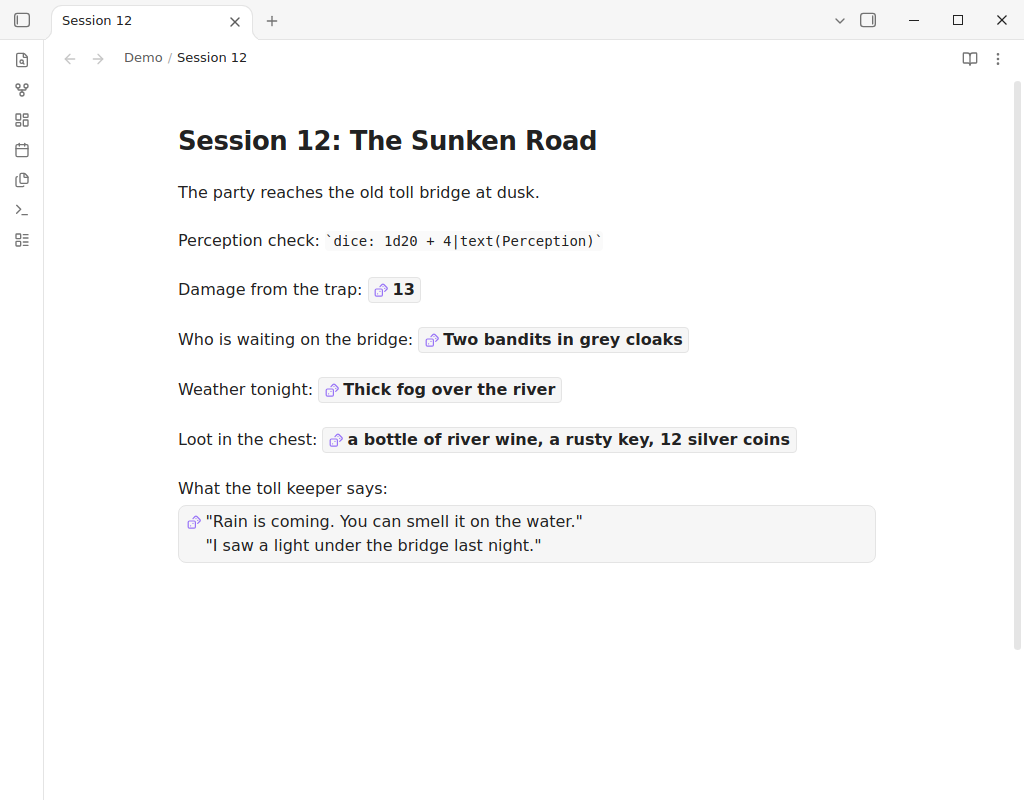
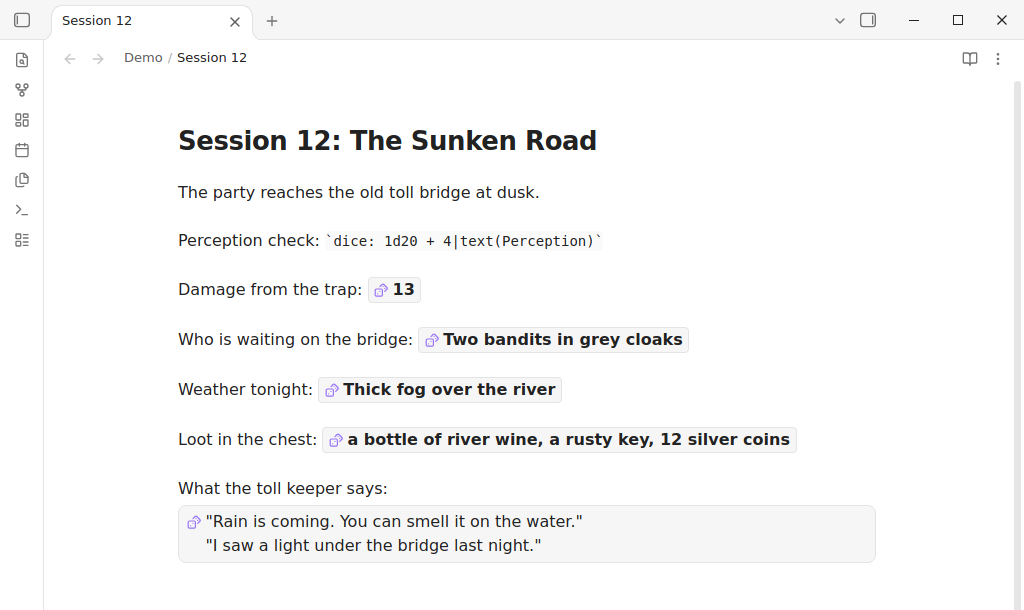
Daan: README als winkelpagina bijgeschaafd (eerste plaatje toont wat je typt, plaatjes bijgesneden, Made by Thijs at Dortus, kopjes in de naslag)
Claude-Session: https://claude.ai/code/session_01Mbw2PfhMQqZywXWKKCn2wR

diff --git a/producten/obsidian-rollwright/README.md b/producten/obsidian-rollwright/README.md
@@ -2,9 +2,9 @@
 
 Roll dice and random tables right inside your notes. Write a formula, read the result, click to roll again.
 
-![A session note in reading view: a Perception check, trap damage, an encounter, the weather, loot and a line from the toll keeper, each rolled in place](https://raw.githubusercontent.com/thijsduinhouwer2002-coder/rollwright/main/images/reading-view.png)
+![A session note in Live Preview: the Perception line shows the code you type, dice: 1d20 + 4|text(Perception), and the lines around it show rolled results: trap damage, an encounter, the weather, loot and a line from the toll keeper](https://raw.githubusercontent.com/thijsduinhouwer2002-coder/rollwright/main/images/live-preview.png)
 
-Made for game masters and solo players who keep their sessions in Obsidian. It uses the `dice:` notation known from the Dice Roller plugin.
+Made by Thijs at [Dortus](https://dortus.com) for game masters and solo players who keep their sessions in Obsidian. It uses the `dice:` notation known from the Dice Roller plugin.
 
 ## What you can do
 
@@ -14,8 +14,6 @@ Made for game masters and solo players who keep their sessions in Obsidian. It u
 - **Keep or write a result.** `dice+:` keeps a result after a restart, `dice-mod:` writes it into the note after you confirm.
 - **Roll history.** A side panel shows what you rolled, from which note, and lets you roll again.
 - **Works where you write.** Reading view and Live Preview look the same, in light and dark themes.
-
-![Live Preview: the line with the cursor shows the code, the other lines show their results](https://raw.githubusercontent.com/thijsduinhouwer2002-coder/rollwright/main/images/live-preview.png)
 
 ![The roll history panel next to the note, with each roll, its formula or source table, and its source note](https://raw.githubusercontent.com/thijsduinhouwer2002-coder/rollwright/main/images/roll-history.png)
 
@@ -29,19 +27,27 @@ For a table, give it a block id such as `^loot` and write `` `dice: [[Treasure^l
 
 All rolling is free. Two extra looks, Parchment and Arcane, are a one-time $6 purchase (see [Paid skins](#paid-skins)).
 
-## Reference
+## Full reference
 
-Rollwright is at version 0.2.0. Before each release, automated tests run it in the real Obsidian app, in reading view and Live Preview.
+Everything below is detail for when you need it. Rollwright is at version 0.2.0. Before each release, automated tests run it in the real Obsidian app, in reading view and Live Preview.
 
-## Rolling dice
+### Rolling dice
 
 Write `` `dice: 2d6 + 3` `` in a note. It works in reading view and Live Preview. Hover to see the formula and the dice. Click to roll again. A result stays while you scroll or type elsewhere in the note. It is rolled again when you click, after a restart, and when lines above it are added or removed, because a result is tied to its line. A roll in a table cell can also roll again when the note is drawn again.
 
+#### Keep a result
+
 To keep a result after a restart, write `` `dice+: 2d6` ``. Rollwright saves it in its own plugin data, for that note and that place in it. A click rolls again and keeps the new result. Up to 500 kept results are saved; beyond that the oldest is dropped. `` `dice-: 2d6` `` never keeps a result and works like `dice:`. When Rollwright cannot tell which line a code is on, as can happen in a table cell of the note itself, `dice+:` works like `dice:` and keeps nothing. Inside a cell of a table you roll on, or as a lookup table header, `dice+:` and `dice-:` roll like `dice:`: the result is kept, or not, as part of the outer roll. Inside such a cell or header, `dice-mod:` is not rolled and stays as text.
+
+#### Write a result into the note
 
 To write a roll into the note for good, use `` `dice-mod: 3d100 + 12` ``. It shows a roll like `dice:`. A click, or Enter, does not roll again: it asks first and shows the text that goes in. Replace turns the code, backticks included, into the result you see, as in `3d100 + 12 -> [75, 20, 75] + 12 -> 182`. A setting leaves out the formula: `[75, 20, 75] + 12 -> 182`. The total follows the number flags; labels such as `|text(x)` are not written. A roll on a table, list, note or tag writes only its result, on one line, and that other note is never changed. Characters that would change the line get a backslash, such as a backtick, a `|` in a table row, or a `#` or `-` at the start of a line. Rollwright only writes into the note that holds the code. It refuses inside an embedded note and when it cannot tell which line the code is on, as can happen in a table cell; then it says so and changes nothing. In Live Preview, undo takes the change back. In reading view the file is changed directly, and undo may not take that back, so check the window before you choose Replace.
 
+#### Clicks with Ctrl or Alt
+
 Ctrl-click (Cmd-click on a Mac) on a result from a table, list, section, line or tag opens the note it came from, in a new tab, without rolling. A tag roll over several notes has no single note to open, so it only says so. On a dice roll, Ctrl-click rolls again like a plain click. Alt-click (Option-click on a Mac) on a dice roll shows its average, as `|avg` does; it is not added to the history. Ctrl-click on a code with `|none` hides its result again and forgets it, also for `dice+:`. On `dice-mod:`, Ctrl-click opens the source of a table or section result; any other click opens the replace window. Phones have no Ctrl or Alt key, so there only a plain tap works.
+
+#### Dice notation
 
 | You write | What it does |
 |---|---|
@@ -56,7 +62,7 @@ Ctrl-click (Cmd-click on a Mac) on a result from a table, list, section, line or
 | `(1d4)d6` | Roll for the number of dice first |
 | `3g2d`, `2y1c1b`, `1w` | Narrative dice of Genesys and the Star Wars roleplaying games: Ability `g`/`a`, Proficiency `y`/`pro`, Difficulty `d`/`diff`, Challenge `r`/`c`, Boost `b`/`boo`, Setback `s`/`sb`/`blk`, Force `w`/`f`, capitals the same. `p` is Proficiency when the roll also has an `a`, `c` or `d` die, otherwise it asks you to write `y` or `d`. Success cancels Failure and Advantage cancels Threat; Triumph also counts as a Success and Despair as a Failure. The result reads like `2 Success, 1 Threat`, the tooltip shows each die. Only when the whole formula is narrative dice and cannot be read as ordinary dice: `2d`, `d`, `4dF` and `1D6KH1` stay ordinary dice, as do saved formulas and note fields such as `gp`. No average with `\|avg` |
 
-### Modifiers
+#### Modifiers
 
 Modifiers run from left to right. A number is optional and defaults to 1.
 
@@ -73,13 +79,13 @@ Modifiers run from left to right. A number is optional and defaults to 1.
 
 `!` explodes on the highest face and `r` rerolls the lowest, unless you add conditions: `1d4!=3`, `1d4!i=!3`, `1d4r<3`, `1d4r<2>3`. Conditions right after `!` or `r` belong to that modifier.
 
-### Counting successes
+#### Counting successes
 
 A condition on dice turns each die into a score: 1 if it matches, otherwise 0. The result is the sum.
 
 `=`, `=!` (not equal), `>`, `<`, `>=`, `<=`, and `-=` or `=-` to score -1. Example: `5d10>=8-=1`. The first matching condition counts. The threshold can be dice too: `3d6>1d6`.
 
-### Flags
+#### Flags
 
 Add flags after `|`, as in `1d20 + 2|nodice|text(Dexterity +2)`.
 
@@ -100,7 +106,7 @@ Add flags after `|`, as in `1d20 + 2|nodice|text(Dexterity +2)`.
 
 The number flags only change dice results, not picks from tables, lists or notes, and only what is shown: the tooltip still shows the exact roll. When two of them clash, the last one counts, so `|round|noround` does not round. A table column with the same name as a flag, such as Round, still wins.
 
-## Rolling on your notes
+### Rolling on your notes
 
 | You write | What it does |
 |---|---|
@@ -120,7 +126,7 @@ The forms `[[Note#^id]]` and `[text](Note#^id)` also work.
 
 A roll inside a block or section you draw is not rolled again: it shows as plain code. An embedded note in such a result becomes a link. Embedded images stay.
 
-### Lookup tables
+#### Lookup tables
 
 If the first header is a formula, Rollwright rolls it and finds the matching row. Rows can be written as `1-2`, `11`, `13,14` or `51–60`. A cell may hold another roll, such as `` `dice: 2d6` `` or `dice: [[Note^id]]`.
 
@@ -133,7 +139,7 @@ If the first header is a formula, Rollwright rolls it and finds the matching row
 ^weather
 ```
 
-## Side panel, commands and settings
+### Side panel, commands and settings
 
 - **Roll history** shows rolls you clicked or typed, with the source note, and lets you roll again. Rolls that happen by themselves when a note opens are not listed. The history is stored in the plugin's data file.
 - **Commands:** "Open roll history" and "Roll a formula".
